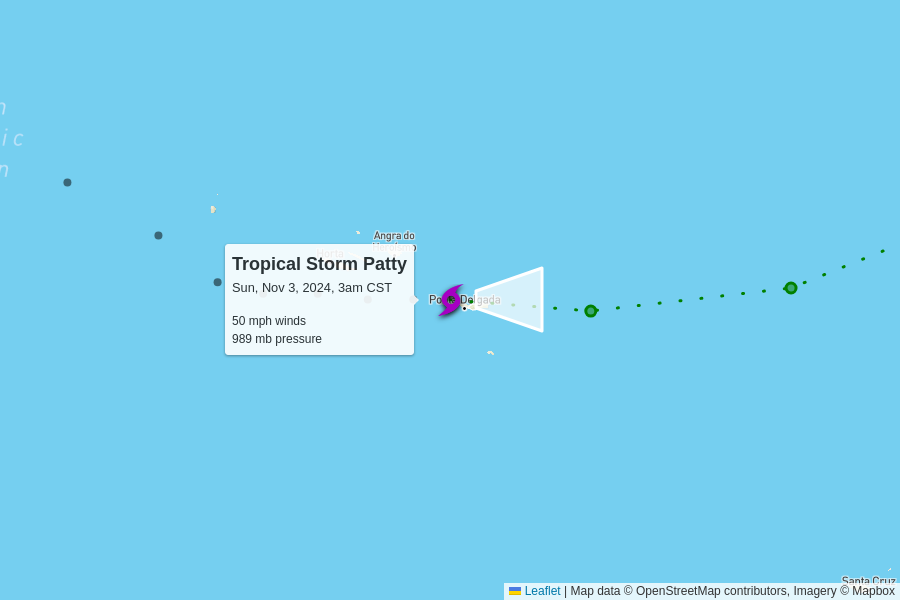
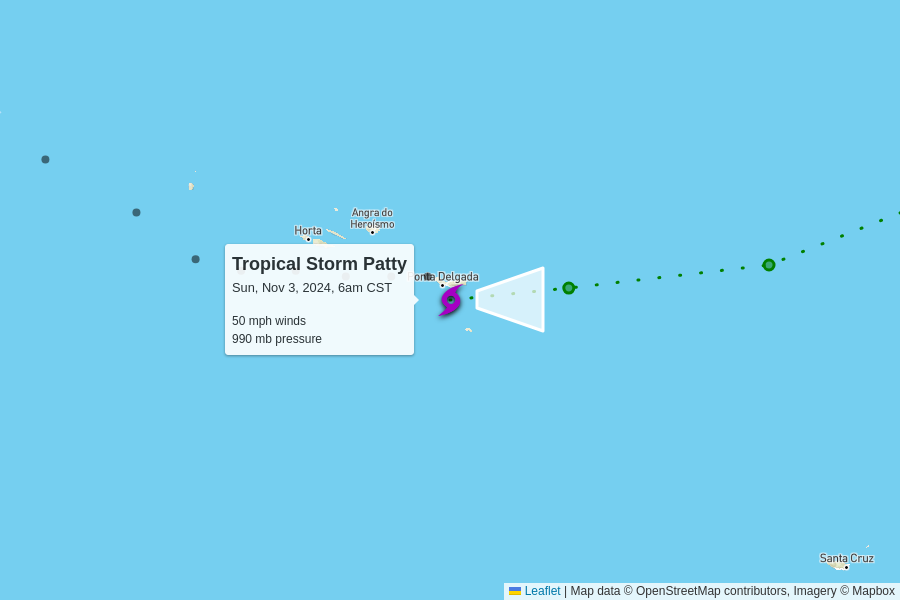
automatic update

diff --git a/docs/index.html b/docs/index.html
@@ -102,7 +102,7 @@
         <td colspan="6" class="storm category-0" >
           <h2>
             Tropical Storm Patty
-            <p class="updated">last updated <span data-time>2024-11-03T09:00:00.000Z</span></p>
+            <p class="updated">last updated <span data-time>2024-11-03T12:00:00.000Z</span></p>
           </h2>
         </td>
       </tr>
@@ -117,8 +117,8 @@
       </tr>
       <tr>
         <td class="spacer"></td>
-        <td>50 mph<br>-10 mph since last update</td>
-        <td>989 mb<br>+1 mb since last update</td>
+        <td>50 mph<br>0 mph since last update</td>
+        <td>990 mb<br>+1 mb since last update</td>
         <td>
           18 mph to the east
           <br/>
